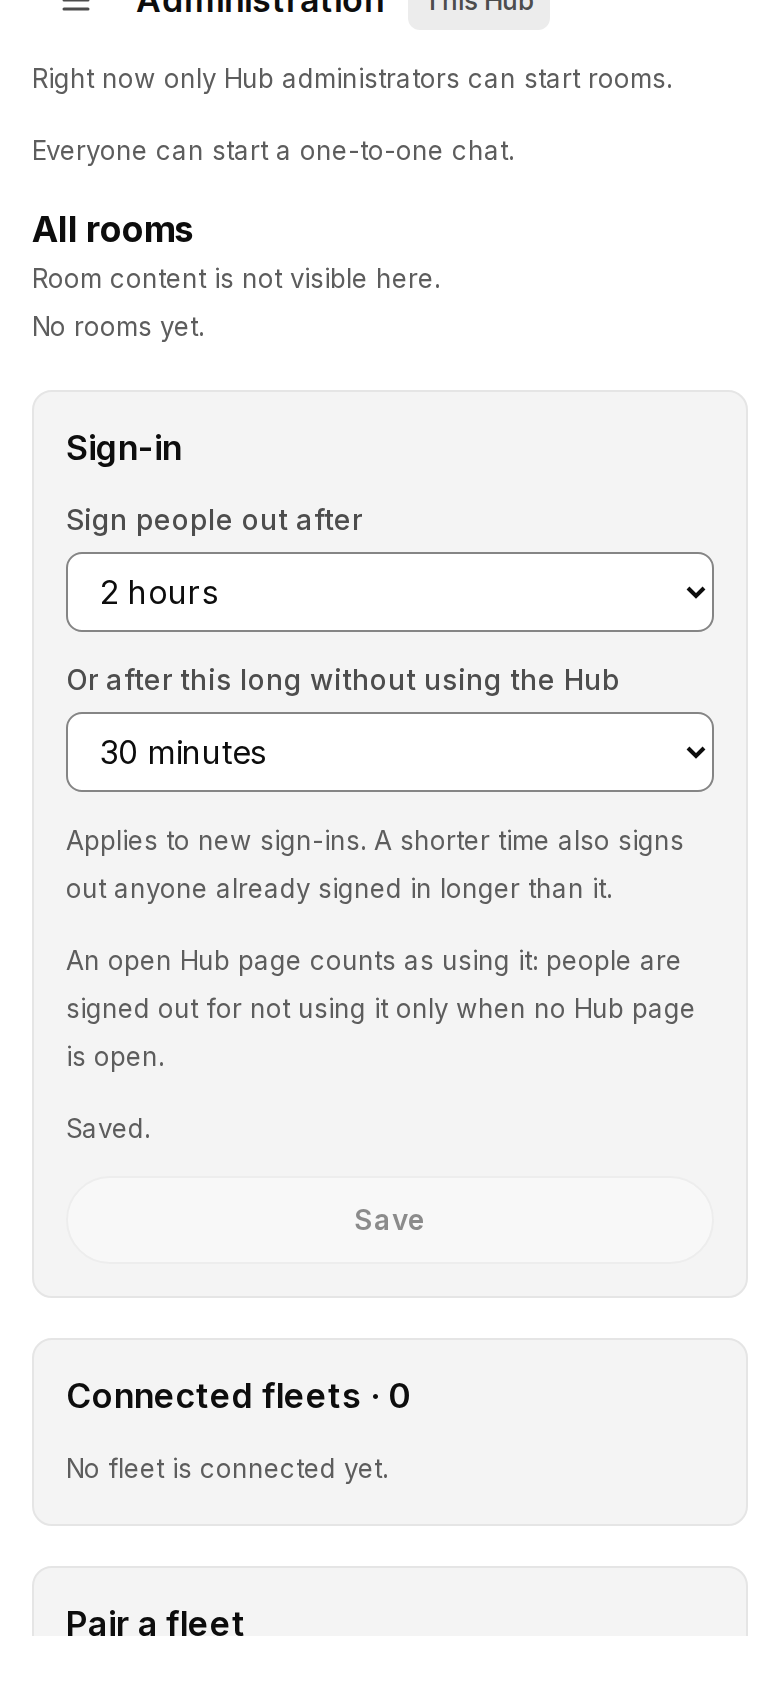
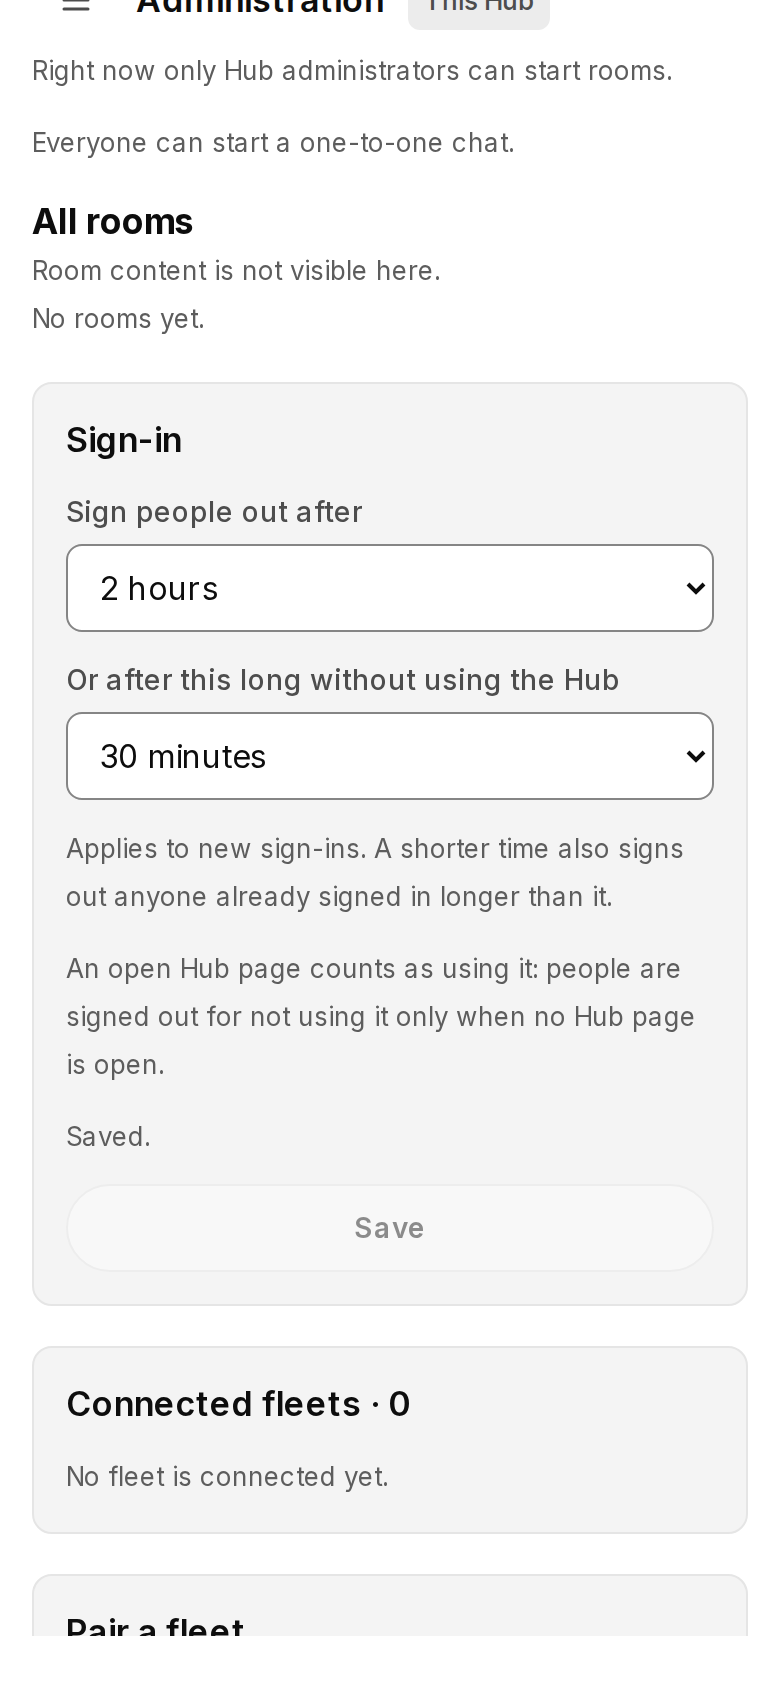
fix(hub): Sign-in's lists and Save are a full 44 px tap target on a phone (#4397 capture check)
They measured about 40 CSS px. Re-captured the phone set; the smoke measures 44 for each.

diff --git a/src/ui/shared/hub-owner.css b/src/ui/shared/hub-owner.css
@@ -178,3 +178,8 @@
 
 /* The granting administrator must see a Team's size and leads at every width. */
 .hub-row-text strong.hub-policy-subject-label { white-space: normal; overflow: visible; text-overflow: clip; overflow-wrap: anywhere; }
+
+/* M-3592: Administration → Sign-in's two lists and its Save are a full tap target on a phone. */
+@media (max-width: 899px), (pointer: coarse) {
+  .hub-session-limits select, .hub-session-limits .btn { min-height: var(--tap); }
+}

diff --git a/docs/evidence/hub-session-limits-m3592/README.md b/docs/evidence/hub-session-limits-m3592/README.md
@@ -15,5 +15,6 @@ Checked against each capture's DOM:
 - the two notes are present;
 - after saving, the status line reads 「已儲存。」 / "Saved.";
 - the card is 860 px wide on the desktop and 358 px on the phone.
+- on the phone, the two lists and **Save** are each 44 CSS px tall: a full tap target (`min-height: var(--tap)` on narrow screens). They measured about 40 px before. The phone captures were re-taken with this fix.
 
 The server side (bounds, administrator only, revision, audit, what a new limit does to sessions already signed in) is tested in `tests/hub-session-limits-m3592.test.ts`, through the real Hub HTTP server with a fake clock.
